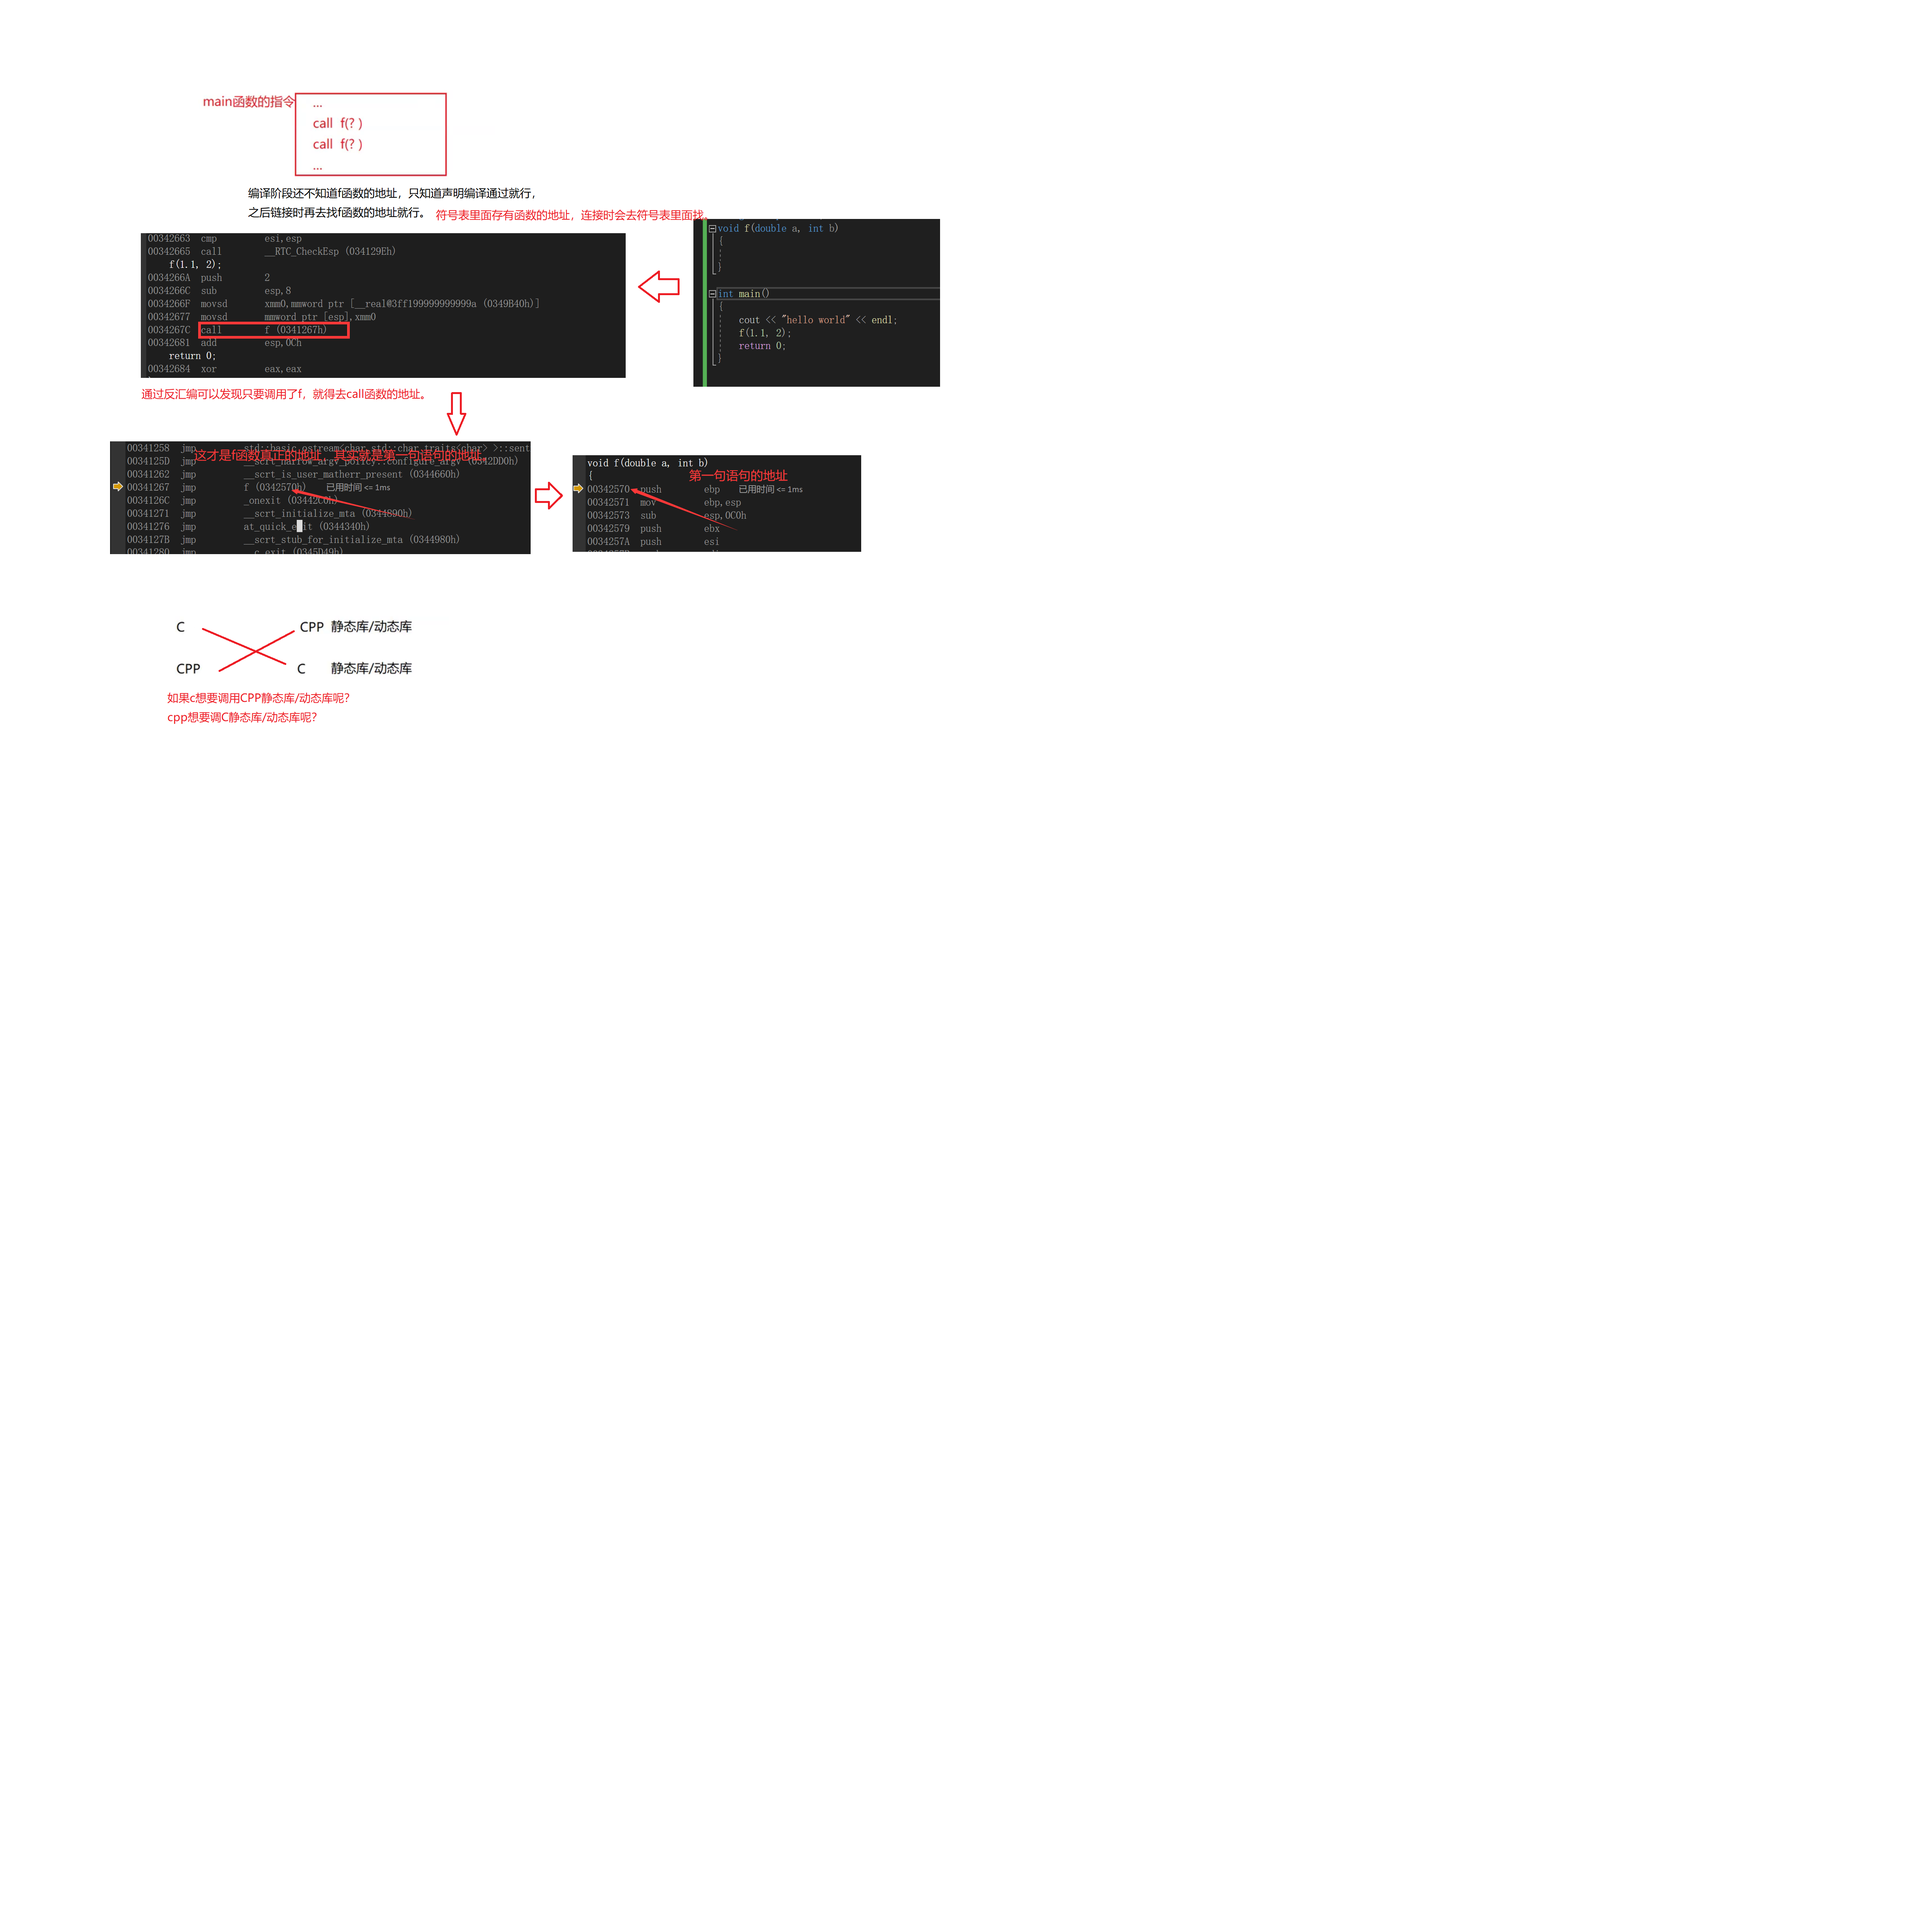
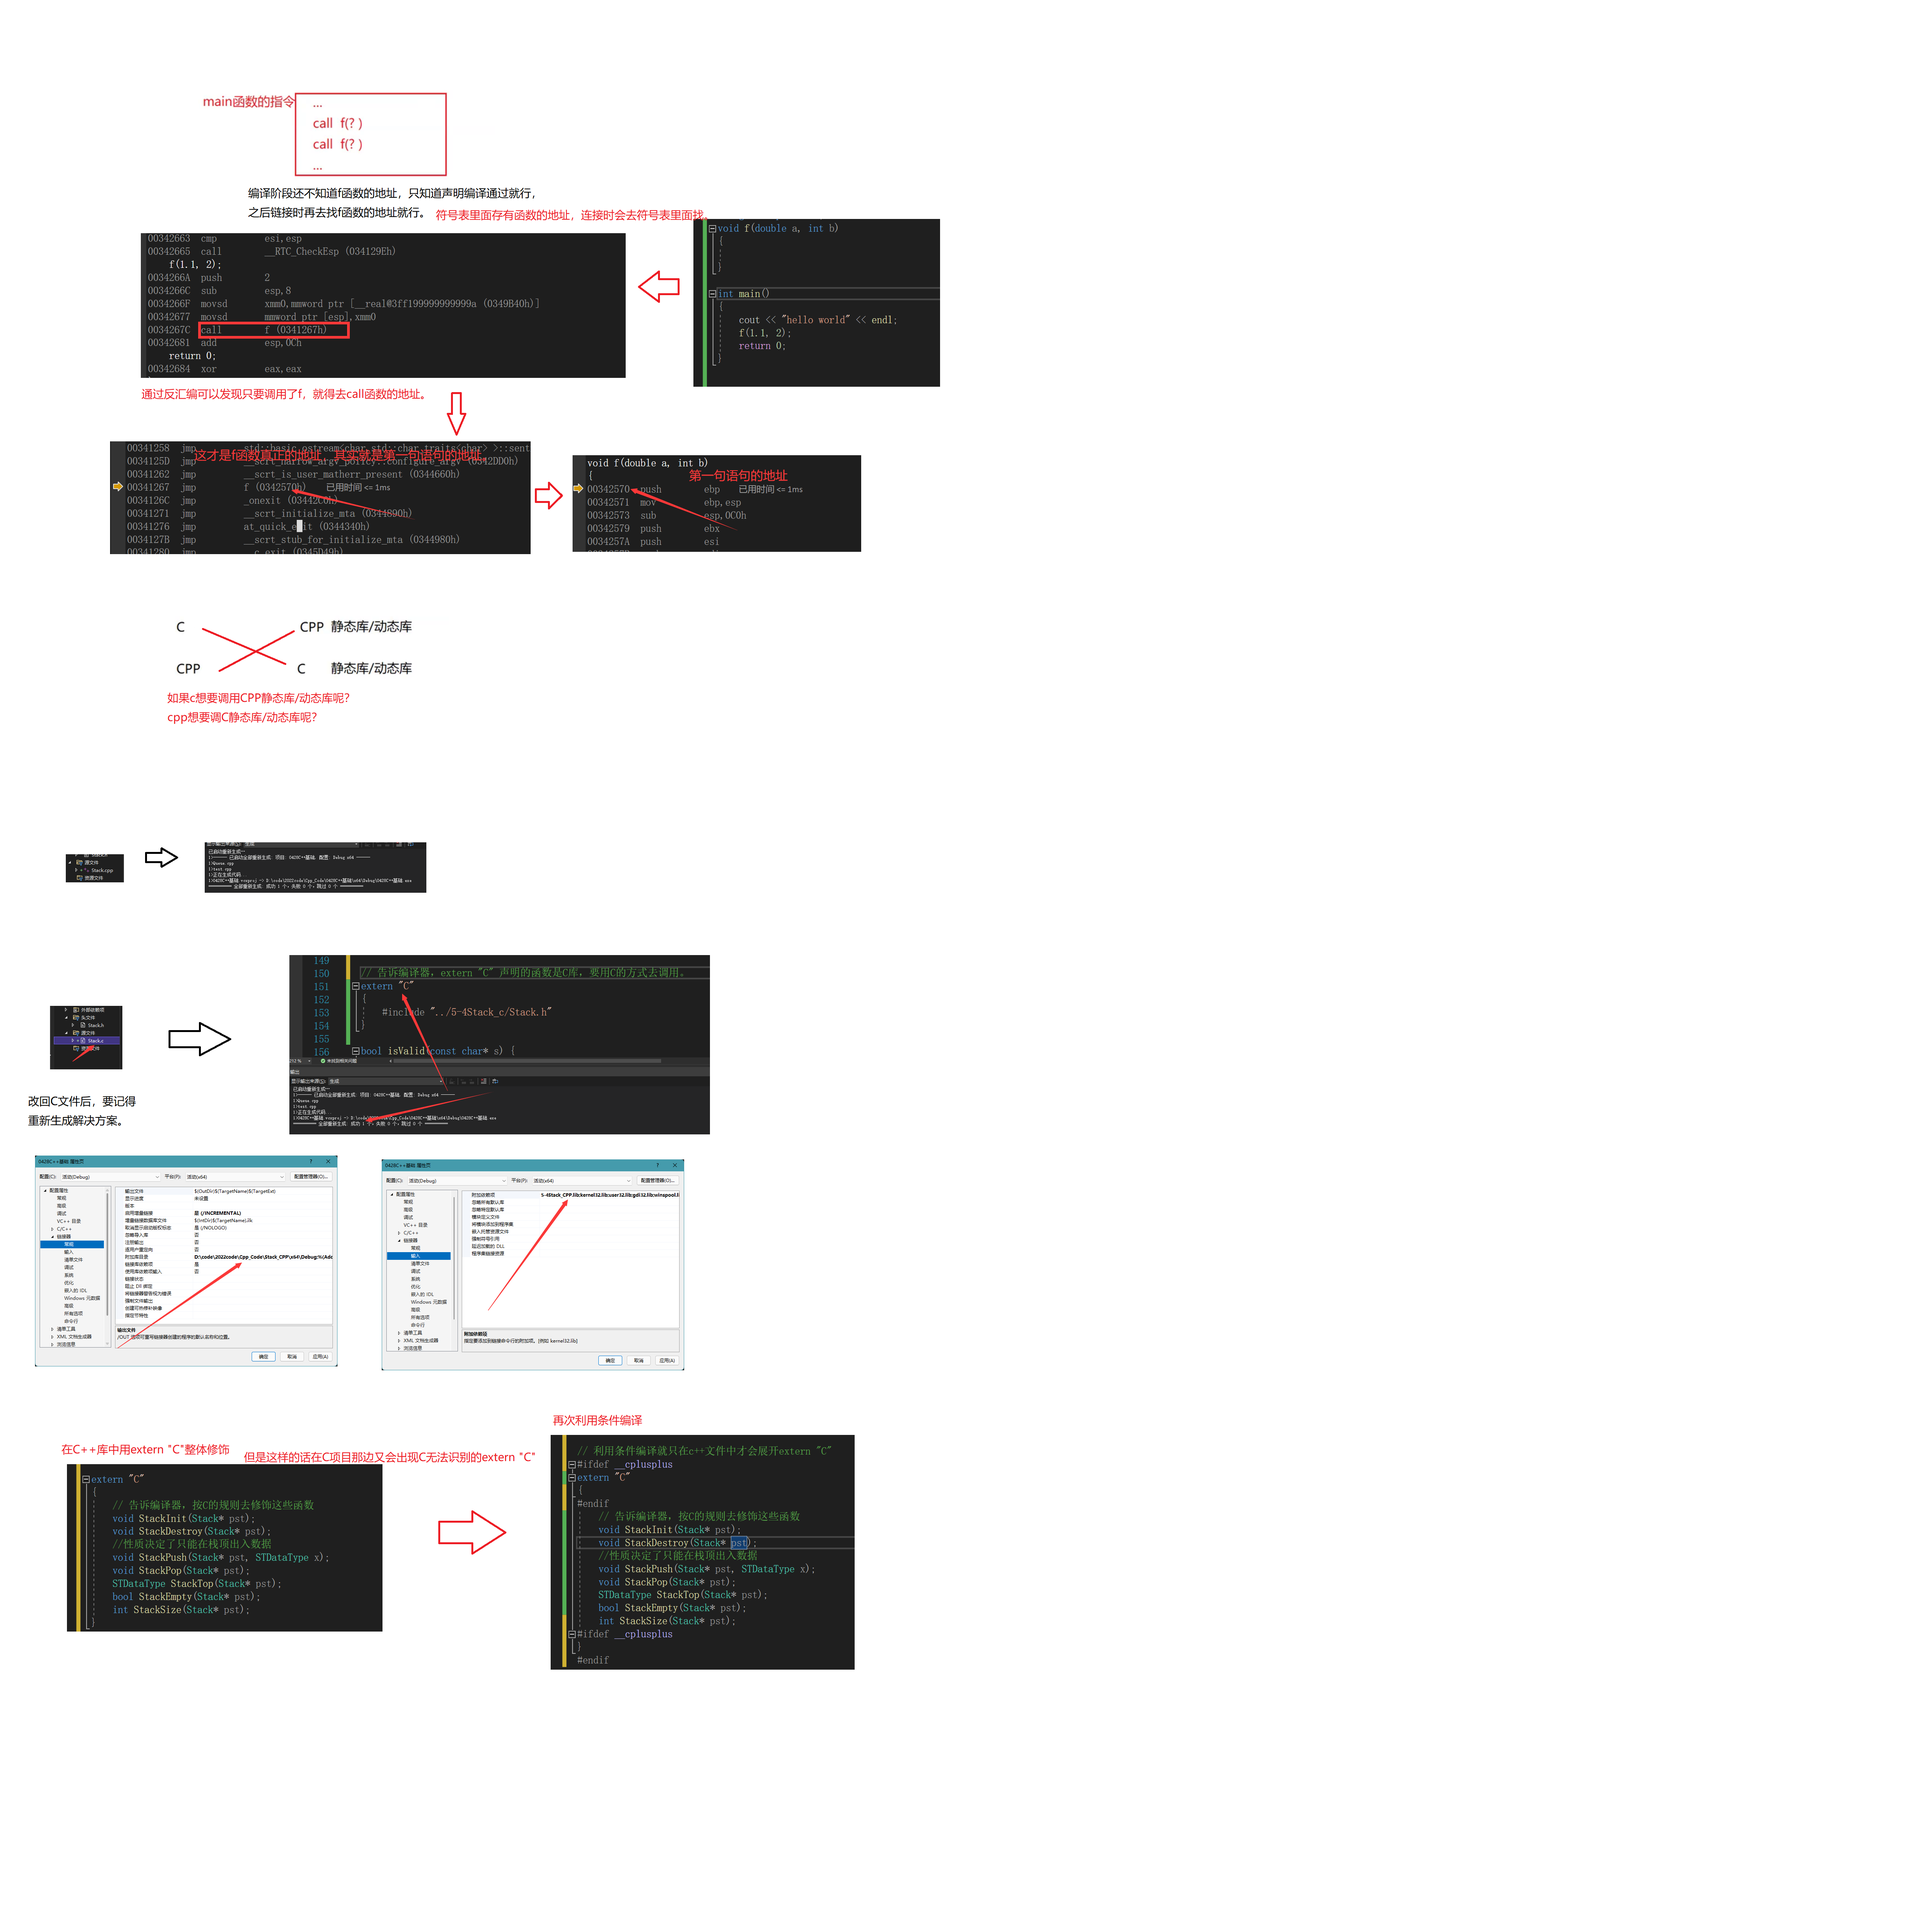
5-5 funtion overloading extern C

diff --git a/0428C++基础/Queue.cpp b/0428C++基础/Queue.cpp
@@ -1,6 +1,6 @@
-#include "Queue.h"
-
-void QueueInit(int n)
-{
-	cout << n << endl;
-}
+//#include "Queue.h"
+//
+//void QueueInit(int n)
+//{
+//	cout << n << endl;
+//}
